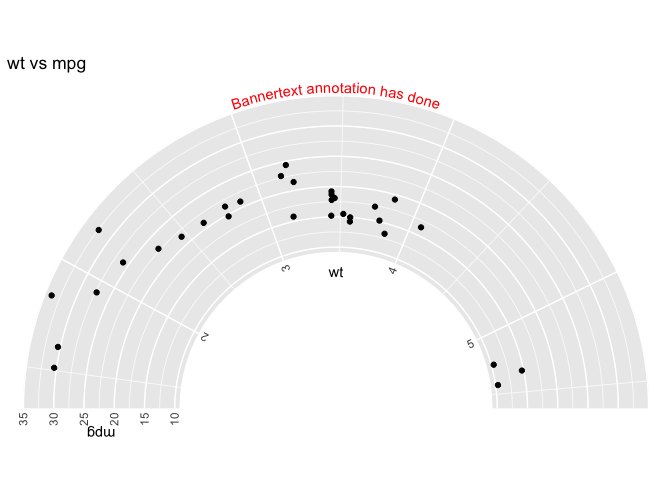
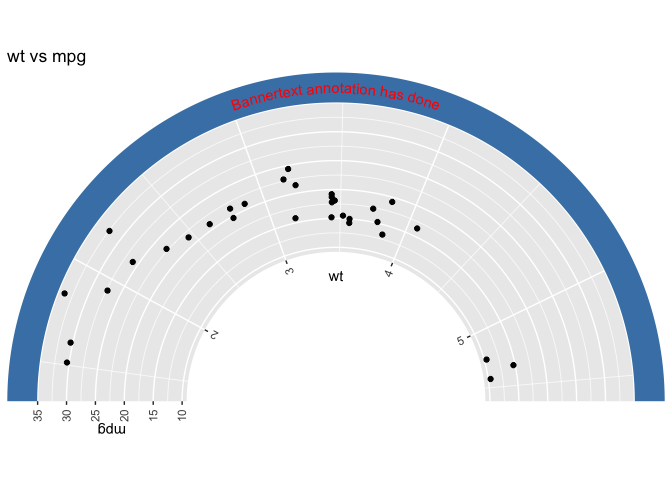
update readme

diff --git a/README.md b/README.md
@@ -41,7 +41,7 @@ ggplot(mtcars, aes(wt, mpg)) + geom_point()
 ``` r
 ## transform
 arc_test()
-#> Build CellID_1 plot...
+#> Build CellID_1 plot......[1/1]
 ```
 
 <img src="man/figures/README-example-2.png" width="100%" />
@@ -54,20 +54,55 @@ library(ggplot2)
 p <- ggplot(mtcars, aes(wt, mpg)) + geom_point()
 
 arcplot() |>
-    init_cell(p, region = CELL(180, 0, 0.5)) |>
-    within_plot(title = "wt vs mpg",
-                xlim = c(-1.05, 1.05),
-                ylim = c(-0.05, 1.05)) |>
-    decorate_bannertext(label = "Bannertext annotation has done",
-                        y = max(y.range) + 0.01,
-                        vjust = 0,
-                        colour = "red",
-                        CellID = "CellID",
-                        fixed = FALSE)
-#> Build CellID_2 plot...
+  init_cell(p, region = CELL(180, 0, 0.5)) |>
+  within_plot(title = "wt vs mpg",
+              xlim = c(-1.1, 1.1),
+              ylim = c(-0.1, 1.1)) |>
+  decorate_rect(ymin = 1,
+                ymax = 1.1,
+                fill = "steelblue",
+                colour = NA,
+                CellID = "CellID",
+                fixed = FALSE) |>
+  decorate_bannertext(label = "Bannertext annotation has done",
+                      y = 1.05,
+                      colour = "red",
+                      CellID = "CellID",
+                      fixed = FALSE)
+#> Build CellID_2 plot......[1/1]
 ```
 
 <img src="man/figures/README-example2-1.png" width="100%" />
+
+## `region` parameter
+
+The `region` parameter (created by `CELL()` function) is used to set the
+region location in polar coordinates, and it mainly has the following
+four parameters: `start` and `end` are used to set the angle (in degree)
+position of the start and end of the region; `r0` and `r1` are used to
+set the radius of the start and end of the region. In addition, the
+`direct` parameter controls the direction of the region, which is
+`clockwise` by default, but you can be set to `reverse.clockwise`.
+
+The `show_cell()` function is a quick way to visualize what different
+parameters do:
+
+``` r
+region <- CELL(start = 120, end = 60, r0 = 0.5, r1 = 1)
+show_cell(region)
+```
+
+<img src="man/figures/README-cell-1.png" width="100%" />
+
+``` r
+
+## reverse.clockwise
+region2 <- CELL(start = 120, end = 60, r0 = 0.5, r1 = 1,
+                direct = "reverse.clockwise")
+show_cell(region2)
+```
+
+<img src="man/figures/README-cell-2.png" width="100%" />
 
 ## Notes
 
